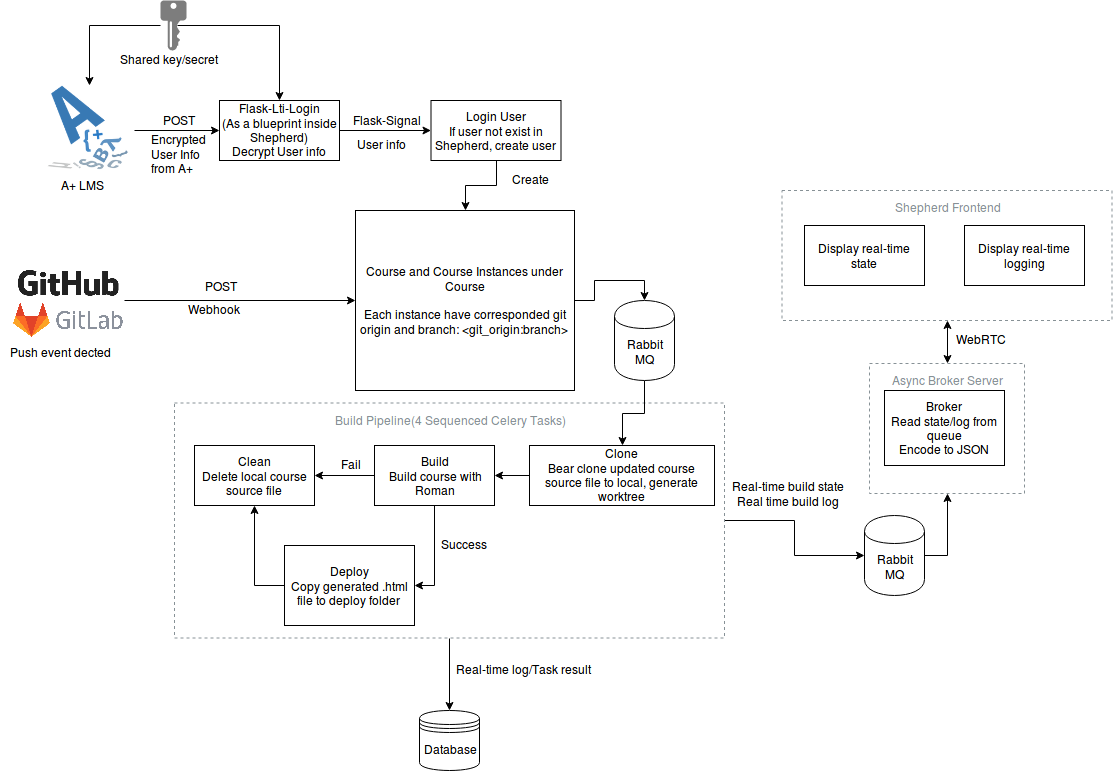
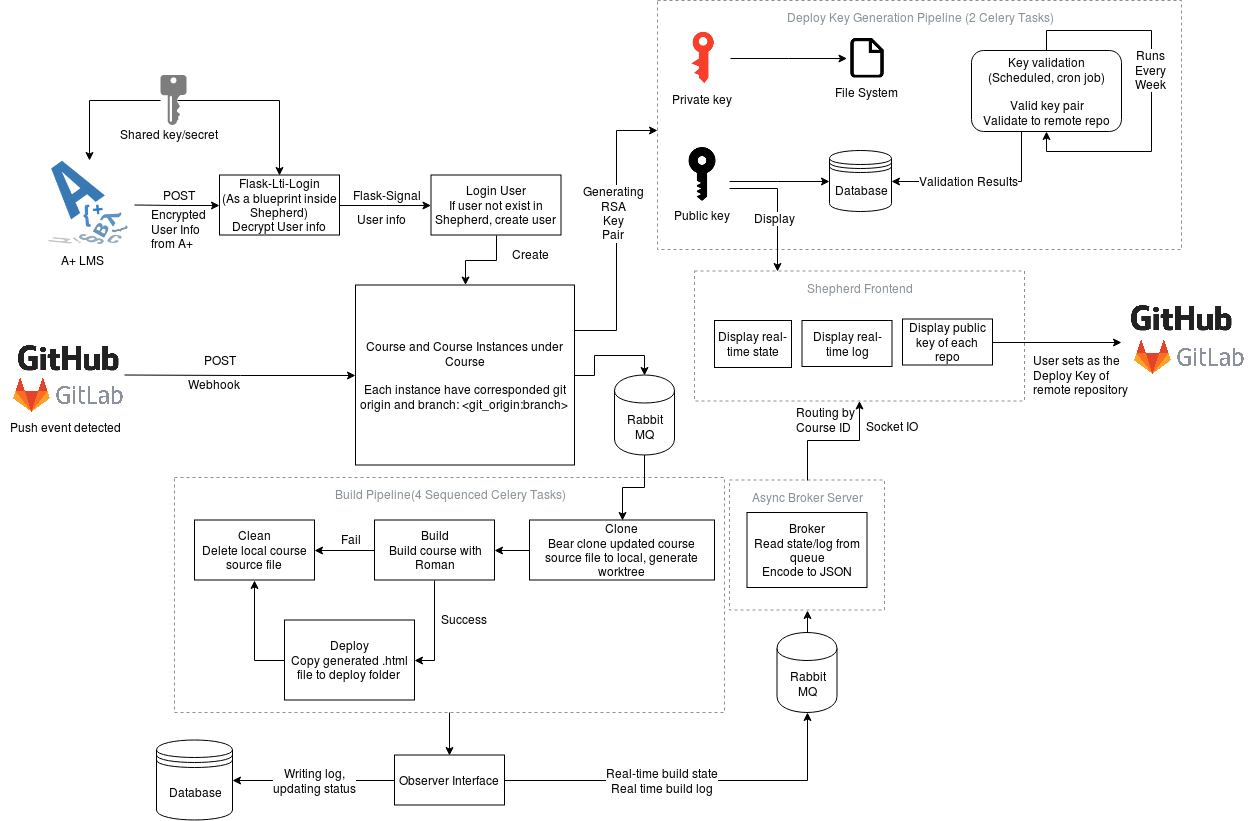
Update readme.

diff --git a/readme.md b/readme.md
@@ -15,10 +15,12 @@ Define group model, grouping user by role, grant user different privileges accor
 ### Build
 Define build and buildlog model.
 ### Courses
-Define course and instance model, course management interface.
+Define course instance model, course management interface.
 ### Webhooks
 Handle push webhook in `GitHub` or `Gitlab`.
 ### Celery Tasks
-Define Build tasks, define automated pipeline(pull/clone->build->deploy->clean).
+* Define Build tasks, define automated pipeline (pull/clone->build->deploy->clean).
+* Define background task for deploy key pair generation/
+* Define the scheduled task for key validation.
 ### Message Broker
-Message broker for updating frontend display in realtime.
+Message broker for updating frontend statues display in realtime, and also routing realtime log output to frontend.
